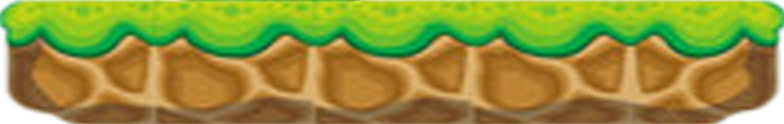
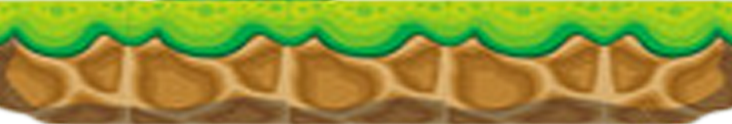
Added an enemy image

diff --git a/code/platforms.py b/code/platforms.py
@@ -8,9 +8,9 @@ class Platform(pygame.sprite.Sprite):
     def __init__(self, x, y, platform_type):
         super().__init__()
         self.image = pygame.transform.scale(
-            pygame.image.load('../maps/platforms/platforms.png').convert_alpha(), (200, 50))
+            pygame.image.load('../maps/platforms/platforms.png').convert_alpha(), (300, 75))
         self.platform_type = platform_type
 
-        self.rect = self.image.get_rect()
+        self.rect = self.image.get_rect(center=(SCREEN_WIDTH // 2, SCREEN_HEIGHT // 2))
         self.rect.x = x
         self.rect.y = y

diff --git a/code/main.py b/code/main.py
@@ -2,15 +2,17 @@ import pygame
 import random
 import sys
 from constants import *
-from player import Player
-from platforms import Platform
+from player import Player 
+from platforms import Platform 
 from enemy import Enemy
 
 pygame.init()
 screen = pygame.display.set_mode((SCREEN_WIDTH, SCREEN_HEIGHT))
 pygame.display.set_caption("2D Platformer Game")
 
+
 player = Player()
+
 
 all_sprites = pygame.sprite.Group()
 platforms = pygame.sprite.Group()

diff --git a/code/enemy.py b/code/enemy.py
@@ -4,8 +4,8 @@ import pygame
 class Enemy(pygame.sprite.Sprite):
     def __init__(self, x, y):
         super().__init__()
-        self.image = pygame.Surface((40, 40))
-        self.image.fill((255, 255, 0))
+        self.image = pygame.transform.scale(
+            pygame.image.load('../enemy/enemy_1.png').convert_alpha(), (100, 50))
         self.rect = self.image.get_rect()
         self.rect.x = x
         self.rect.y = y
